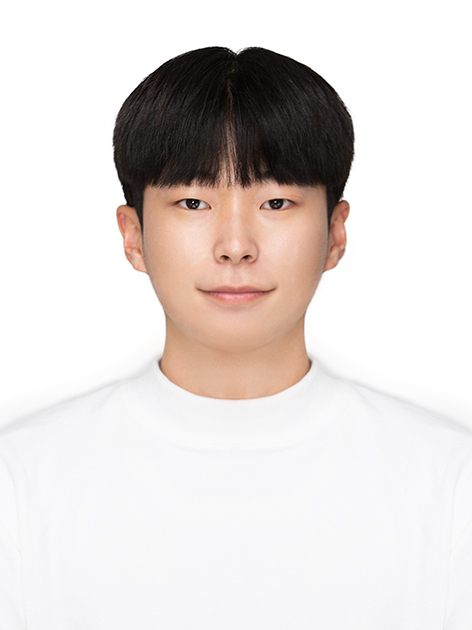
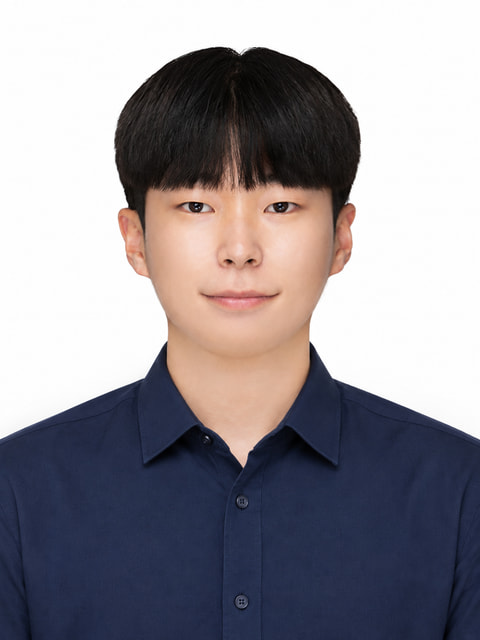
content: swap in the new ID photo
Downscaled the 1086x1448 source once to 480x640 (3.3x the 144px display
width) and served it unoptimized, so it only goes through one encode.

diff --git a/src/app/resume/page.tsx b/src/app/resume/page.tsx
@@ -45,13 +45,13 @@ export default function Resume() {
           </p>
         </div>
 
-        {/* 원본이 472px이라 Next가 640px로 늘리면 오히려 뭉개집니다.
-            원본 그대로 내보내 표시 크기 대비 3배 밀도를 유지합니다. */}
+        {/* 표시 폭이 144px이라 480px로 한 번만 줄여 내보냅니다. Next에 다시
+            맡기면 두 번 압축돼 뭉개지므로 unoptimized로 원본을 그대로 씁니다. */}
         <Image
           src="/profile.jpg"
           alt={`${profile.nameKo} 프로필 사진`}
-          width={472}
-          height={630}
+          width={480}
+          height={640}
           priority
           unoptimized
           className="h-40 w-30 shrink-0 rounded-lg border border-line object-cover sm:h-48 sm:w-36"
